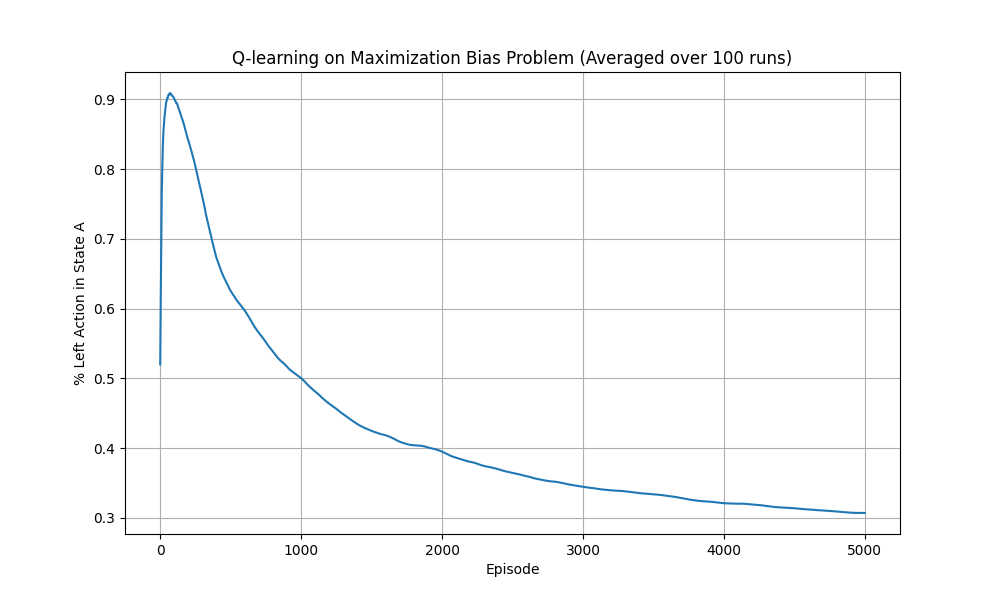
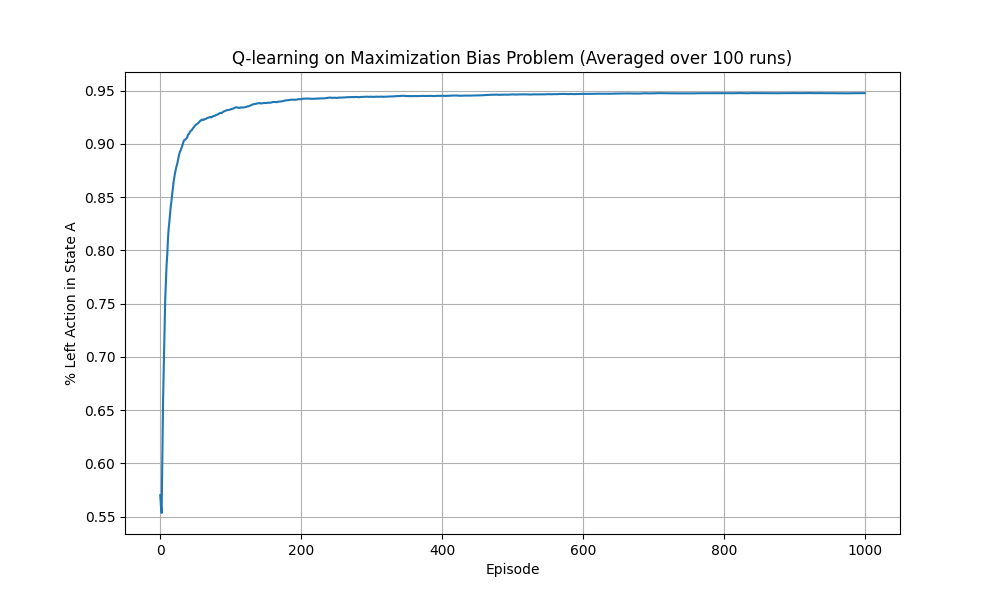
fix a mistake of maximizatin bias, but still seems wierd

diff --git a/experiments/maximization_bias/q_learning.py b/experiments/maximization_bias/q_learning.py
@@ -22,9 +22,9 @@ class MaximizationBiasQLearning(QLearning):
         self.Q = {}
         self.policy = {}
 
-        # State A (0) has 2 actions, State B (1) has 10 actions
+        # State A (0) has 2 actions, State B (1) has several actions
         for state in range(self.env.observation_space.n):
-            num_actions = 2 if state == 0 else 10
+            num_actions = 2 if state == 0 else self.env.num_action_at_state_B
             self.Q[state] = np.zeros(num_actions)
             self.policy[state] = np.ones(num_actions) / num_actions
 
@@ -38,7 +38,7 @@ class MaximizationBiasQLearning(QLearning):
             done = False
             
             while not done:
-                num_actions = 2 if state == 0 else 10  # Adjust the number of actions based on state
+                num_actions = 2 if state == 0 else self.env.num_action_at_state_B  # Adjust the number of actions based on state
                 action = np.random.choice(np.arange(num_actions), p=self.policy[state])
                 if state == 0 and action == 0:
                     left_action_count += 1
@@ -83,7 +83,7 @@ class QLearningWithLogging(MaximizationBiasQLearning):
             done = False
             
             while not done:
-                num_actions = 2 if state == 0 else 10  # Adjust the number of actions based on state
+                num_actions = 2 if state == 0 else self.env.num_action_at_state_B  # Adjust the number of actions based on state
                 action = np.random.choice(np.arange(num_actions), p=self.policy[state])
                 if state == 0 and action == 0:
                     left_action_count += 1
@@ -124,11 +124,11 @@ if __name__ == '__main__':
     set_seed()
     log_dir = os.path.dirname(os.path.abspath(__file__))
     ##### 0. Load environment and initiate policy #####
-    env = MaximizationBias()
-    agent = QLearningWithLogging(env=env)
+    env = MaximizationBias(num_action_at_state_B=1)
+    agent = QLearningWithLogging(env=env, alpha=0.1)
 
     ##### 1. Use Q-learning to solve the Maximization Bias problem #####
-    num_episode = 5_000
+    num_episode = 10_000
     num_runs = 100
     window_size = 1
 
@@ -139,12 +139,12 @@ if __name__ == '__main__':
 
     # Plot the percentage of left actions taken over episodes
     plt.figure(figsize=(10, 6))
-    plt.plot(range(num_episode), smoothed_left_action_ratio, label="Q-learning (Averaged over 100 runs)")
+    plt.plot(range(num_episode), smoothed_left_action_ratio, label=f"Q-learning (Averaged over {num_runs} runs)")
     plt.xlabel('Episode')
     plt.ylabel('% Left Action in State A')
-    plt.title('Q-learning on Maximization Bias Problem (Averaged over 100 runs)')
+    plt.title(f'Q-learning on Maximization Bias Problem (Averaged over {num_runs} runs)')
     plt.grid(True)
 
-    plot_path = os.path.join(log_dir, 'q_learning_maximization_bias_avg_100runs.png')
+    plot_path = os.path.join(log_dir, f'q_learning_maximization_bias_avg_{num_runs}runs.png')
     plt.savefig(plot_path)
     plt.show()

diff --git a/envs/maximization_bias.py b/envs/maximization_bias.py
@@ -3,11 +3,12 @@ import gymnasium as gym
 from gymnasium import spaces
 
 class MaximizationBias(gym.Env):
-    def __init__(self):
+    def __init__(self, num_action_at_state_B=10):
         super(MaximizationBias, self).__init__()
         
-        # Define action space: two actions in state A (left (0) and right (1)), and 10 actions in state B
-        self.action_space = spaces.Discrete(10)
+        self.num_action_at_state_B = num_action_at_state_B
+        # Define action space: two actions in state A (left (0) and right (1)), and several actions in state B
+        self.action_space = spaces.Discrete(self.num_action_at_state_B)
         
         # Define observation space: two non-terminal states A (0) and B (1), and a terminal state (2)
         self.observation_space = spaces.Discrete(3)
@@ -33,9 +34,9 @@ class MaximizationBias(gym.Env):
             else:
                 raise ValueError(f"Invalid action in state A: {action}")
         elif self.state == 1:  # In state B
-            if action in range(10):  # Any action in state B leads to termination
+            if action in range(self.num_action_at_state_B):  # Any action in state B leads to termination
                 self.state = 2  # Transition to terminal state
-                reward = np.random.normal(0.1, 1.0)  # Sample reward from N(0.1, 1.0)
+                reward = np.random.normal(0.1, 0.2)  # Sample reward from N(-0.1, 1.0)
                 self.done = True
             else:
                 raise ValueError(f"Invalid action in state B: {action}")
@@ -56,21 +57,29 @@ class MaximizationBias(gym.Env):
         pass
 
 if __name__ == "__main__":
-    env = MaximizationBias()
-    
-    # Run a few episodes to demonstrate environment behavior
-    for episode in range(5):
+    env = MaximizationBias(num_action_at_state_B=1)
+    num_episode = 1_000
+    rewards_at_B = []
+
+    # Run 100 episodes
+    for episode in range(num_episode):
         state, _ = env.reset()
         done = False
-        print(f"Episode {episode} starts")
-        
+
         while not done:
             if state == 0:
-                action = env.action_space.sample() % 2  # Randomly sample an action for state A
+                action = 0  # Always choose left to go to state B
             else:
                 action = env.action_space.sample()  # Randomly sample an action for state B
                 
             next_state, reward, done, _, _ = env.step(action)
-            env.render()
-            print(f"Action: {action}, Reward: {reward}")
-        print(f"Episode {episode} ends\n")
+            
+            # If we are in state B, record the reward
+            if state == 1:
+                rewards_at_B.append(reward)
+
+            state = next_state
+
+    # Calculate the average reward received in state B
+    average_reward_at_B = np.mean(rewards_at_B)
+    print(f"Average reward at state B over {num_episode} episodes: {average_reward_at_B}")

diff --git a/experiments/maximization_bias/double_q_learning.py b/experiments/maximization_bias/double_q_learning.py
@@ -21,9 +21,9 @@ class MaximizationBiasDoubleQLearning(DoubleQLearning):
         self.Q2 = {}
         self.policy = {}
 
-        # State A (0) has 2 actions, State B (1) has 10 actions
+        # State A (0) has 2 actions, State B (1) has self.env.num_action_at_state_B actions
         for state in range(self.env.observation_space.n):
-            num_actions = 2 if state == 0 else 10
+            num_actions = 2 if state == 0 else self.env.num_action_at_state_B
             self.Q1[state] = np.zeros(num_actions)
             self.Q2[state] = np.zeros(num_actions)
             self.policy[state] = np.ones(num_actions) / num_actions
@@ -131,11 +131,11 @@ if __name__ == '__main__':
     set_seed()
     log_dir = os.path.dirname(os.path.abspath(__file__))
     ##### 0. Load environment and initiate policy #####
-    env = MaximizationBias()
+    env = MaximizationBias(num_action_at_state_B=5)
     agent = DoubleQLearningWithLogging(env=env)
 
     ##### 1. Use Double Q-learning to solve the Maximization Bias problem #####
-    num_episode = 5_000
+    num_episode = 1_000
     num_runs = 100
     window_size = 1
 
@@ -145,12 +145,12 @@ if __name__ == '__main__':
 
     # Plot the percentage of left actions taken over episodes
     plt.figure(figsize=(10, 6))
-    plt.plot(range(num_episode), smoothed_left_action_ratio, label="Double Q-learning (Averaged over 100 runs)")
+    plt.plot(range(num_episode), smoothed_left_action_ratio, label=f"Double Q-learning (Averaged over {num_runs} runs)")
     plt.xlabel('Episode')
     plt.ylabel('% Left Action in State A')
-    plt.title('Double Q-learning on Maximization Bias Problem (Averaged over 100 runs)')
+    plt.title(f'Double Q-learning on Maximization Bias Problem (Averaged over {num_runs} runs)')
     plt.grid(True)
 
-    plot_path = os.path.join(log_dir, 'double_q_learning_maximization_bias_avg_100runs.png')
+    plot_path = os.path.join(log_dir, f'double_q_learning_maximization_bias_avg_{num_runs}runs.png')
     plt.savefig(plot_path)
     plt.show()
